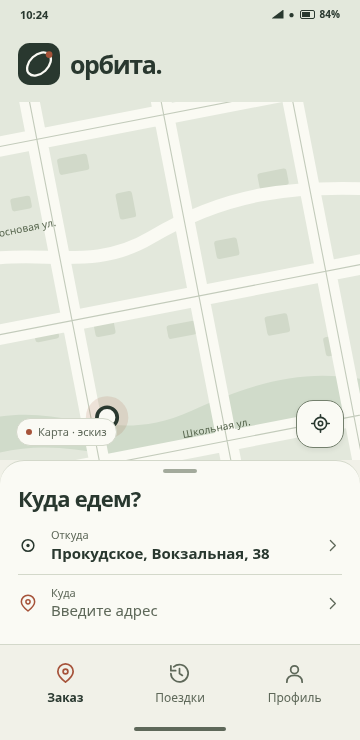
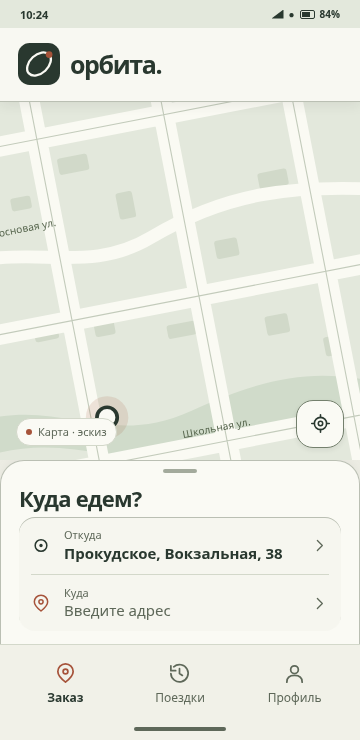
Save Orbita design fixes for visual review

diff --git a/design/orbita-concept.html b/design/orbita-concept.html
@@ -16,6 +16,7 @@
       --map-land:#E3E8DC; --map-park:#D0DBCA; --map-road:#FAFAF3; --map-road-edge:#C3CBBB; --map-building:#D1D9C9;
       --map-label:#58674F; --map-route:#A6533A; --map-halo:#E3E8DC; --stage:#E6E7DD;
       --brand-tile:#29382F; --brand-ring:#FAFAF4; --shadow:rgba(32,43,32,.08);
+      --position:#2F6B9A;
     }
     body[data-theme="dark"] {
       --background:#23241F; --surface:#2E3028; --surface-variant:#3C4034; --text:#F2F0E5; --muted:#BFC4B0;
@@ -24,6 +25,7 @@
       --map-land:#30382D; --map-park:#3E4A39; --map-road:#59664F; --map-road-edge:#424D38; --map-building:#3B4635;
       --map-label:#C6CBB7; --map-route:#E39272; --map-halo:#30382D; --stage:#1B1E18;
       --brand-tile:#F2F0E5; --brand-ring:#23241F; --shadow:rgba(0,0,0,.18);
+      --position:#88BDE6;
     }
     button, input, select { font:inherit; }
     button { cursor:pointer; }
@@ -65,7 +67,7 @@
     .scene-tools button[aria-pressed="true"] { border-color:var(--accent); background:var(--accent-soft); }
     .preview-zone { width:100%; display:flex; justify-content:center; padding:8px 0 20px; }
     .stage-foot { max-width:600px; text-align:center; }
-    .device { --s:1; width:var(--device-w,390px); height:var(--device-h,844px); flex:none; border:3px solid var(--text); border-radius:32px; overflow:hidden; display:flex; flex-direction:column; background:var(--background); color:var(--text); box-shadow:0 16px 40px var(--shadow); }
+    .device { --s:1; --layer-edge:color-mix(in srgb,var(--outline) 48%,var(--surface)); --header-layer:color-mix(in srgb,var(--surface) 90%,var(--map-land)); --field-layer:color-mix(in srgb,var(--surface) 78%,var(--surface-variant)); container:orbita / inline-size; width:var(--device-w,390px); height:var(--device-h,844px); flex:none; border:3px solid var(--text); border-radius:32px; overflow:hidden; display:flex; flex-direction:column; background:var(--background); color:var(--text); box-shadow:0 16px 40px var(--shadow); }
     .status-bar { flex:none; height:28px; padding:0 20px; display:flex; align-items:center; justify-content:space-between; color:var(--text); background:var(--map-land); font-size:11px; font-weight:600; }
     .status-right { display:flex; align-items:center; gap:5px; font-size:10px; }
     .signal { width:12px; height:9px; background:currentColor; clip-path:polygon(0 100%,100% 0,100% 100%); }
@@ -97,7 +99,17 @@
     .map-controls { position:absolute; right:16px; top:12px; display:grid; background:var(--surface); border:1px solid var(--outline); border-radius:16px; overflow:hidden; }
     .map-controls button { width:48px; height:48px; border:0; background:transparent; color:var(--text); font-size:22px; }
     .map-controls button+button { border-top:1px solid var(--divider); }
-    .crosshair { position:absolute; left:50%; top:50%; width:34px; height:34px; border:4px solid var(--text); outline:8px solid color-mix(in srgb,var(--accent) 18%,transparent); border-radius:50%; transform:translate(-50%,-50%); background:var(--surface); }
+    .crosshair { position:absolute; left:50%; top:50%; width:40px; height:40px; transform:translate(-50%,-50%); color:var(--text); filter:drop-shadow(0 1px 2px var(--surface)); }
+    .crosshair .icon { width:40px; height:40px; stroke-width:2.4; }
+    .crosshair-label { position:absolute; left:50%; top:calc(50% + 26px); transform:translateX(-50%); padding:5px 9px; border:1px solid var(--layer-edge); border-radius:10px; background:var(--surface); color:var(--text); font-size:11px; white-space:nowrap; }
+    .map-legend { display:grid; grid-template-columns:repeat(2,minmax(0,1fr)); gap:9px 12px; padding:2px 0 13px; margin-bottom:12px; border-bottom:1px solid var(--divider); }
+    .map-legend>span { display:flex; align-items:center; gap:7px; min-width:0; color:var(--muted); font-size:calc(11px * var(--s)); line-height:1.35; overflow-wrap:anywhere; }
+    .marker-key { width:22px; height:22px; flex:none; display:grid; place-items:center; font-size:12px; font-style:normal; font-weight:650; }
+    .marker-key.position { color:var(--position); }
+    .marker-key.pickup { color:var(--surface); background:var(--text); border-radius:6px; }
+    .marker-key.destination { color:var(--accent); }
+    .marker-key.aim { color:var(--text); }
+    .map-graphic .marker-label { fill:var(--text); font-size:11px; font-weight:600; }
     .sheet { flex:none; max-height:65%; padding:8px 18px 13px; width:100%; border:0; border-top:1px solid var(--divider); border-radius:24px 24px 0 0; color:var(--text); background:var(--surface); overflow-y:auto; scrollbar-width:thin; }
     .sheet.expanded { flex:1 1 auto; max-height:none; }
     .sheet-handle { width:34px; height:4px; border-radius:100px; background:var(--outline); margin:0 auto 12px; opacity:.65; }
@@ -167,6 +179,10 @@
     .driver-status .status-symbol { width:44px; height:44px; border-radius:15px; display:grid; place-items:center; flex:none; color:var(--accent); background:var(--accent-soft); }
     .driver-status h2 { font-size:calc(19px * var(--s)); }
     .driver-status p { margin:7px 0 0; }
+    .driver-off .driver-status,.driver-online .driver-status { align-items:center; padding:2px 0; gap:12px; }
+    .driver-off .driver-status h2,.driver-online .driver-status h2 { font-size:calc(16px * var(--s)); margin-bottom:3px; }
+    .driver-off .driver-status p,.driver-online .driver-status p { font-size:calc(13px * var(--s)); margin:0; }
+    .driver-off .driver-status .status-symbol,.driver-online .driver-status .status-symbol { width:26px; height:26px; background:transparent; color:var(--muted); }
     .offer-time { display:flex; align-items:center; justify-content:space-between; gap:10px; }
     .offer-time strong { font-size:calc(25px * var(--s)); font-weight:650; color:var(--accent); font-variant-numeric:tabular-nums; white-space:nowrap; }
     .progress-track { height:4px; border-radius:10px; background:var(--surface-variant); overflow:hidden; }
@@ -187,6 +203,19 @@
     .avatar { width:54px; height:54px; border-radius:19px; display:grid; place-items:center; flex:none; background:var(--accent-soft); color:var(--accent); font-size:18px; font-weight:600; }
     .profile-identity strong { display:block; font-size:calc(20px * var(--s)); font-weight:650; line-height:1.2; overflow-wrap:anywhere; }
     .profile-identity p { margin-top:5px; }
+    .profile .profile-content { display:flex; flex-direction:column; gap:18px; }
+    .profile-content>* { flex-shrink:0; }
+    .profile-summary { padding:20px 18px; background:var(--surface); border:1px solid var(--layer-edge); border-radius:22px; box-shadow:0 5px 18px var(--shadow); }
+    .profile-summary .profile-identity { padding:0 0 14px; }
+    .profile-summary .profile-identity>div { min-width:0; }
+    .profile-summary .avatar { width:64px; height:64px; border-radius:21px; }
+    .profile-summary .badge { gap:6px; }
+    .profile .menu-group { padding:0 15px; border:1px solid var(--layer-edge); border-radius:20px; background:var(--surface); }
+    .profile .menu-row { min-height:76px; }
+    .profile .menu-row:last-child { border-bottom:0; }
+    .profile .section-label { margin:0 0 9px; }
+    .profile-footer { display:grid; gap:12px; margin-top:auto; padding-top:16px; border-top:1px solid var(--divider); }
+    .profile-footer .fine-print { text-align:center; margin:0; }
     .auth-intro { display:grid; gap:9px; padding:18px 0 8px; }
     .auth-form { display:grid; gap:10px; }
     .auth-form .primary { margin-top:14px; }
@@ -194,6 +223,17 @@
     .service-emblem { width:60px; height:60px; display:grid; place-items:center; border-radius:21px; color:var(--accent); background:var(--accent-soft); margin:12px 0 6px; }
     .service-emblem .icon { width:28px; height:28px; }
     .service-actions { display:grid; gap:10px; margin-top:12px; }
+    .status-page .service-content { align-content:safe center; }
+    .status-card { width:100%; display:grid; justify-items:center; gap:15px; padding:26px 22px 22px; border:1px solid var(--outline); border-radius:24px; background:var(--surface); box-shadow:0 9px 28px var(--shadow); text-align:center; }
+    .status-card .service-emblem { margin:0; }
+    .status-card h2,.status-card p { width:100%; }
+    .status-card .service-actions { width:100%; padding-top:18px; margin-top:4px; border-top:1px solid var(--divider); }
+    :is(.passenger-home,.passenger-map,.passenger-confirm,.driver-off,.driver-online,.driver-offer,.status-page) .app-head { position:relative; z-index:2; background:var(--header-layer); border-bottom:1px solid var(--layer-edge); box-shadow:0 3px 12px var(--shadow); }
+    :is(.passenger-home,.passenger-map,.passenger-confirm,.driver-off,.driver-online,.driver-offer) .sheet { border:1px solid var(--layer-edge); border-bottom:0; box-shadow:0 -7px 24px var(--shadow); }
+    :is(.passenger-home,.passenger-confirm,.driver-offer) .route-stack { padding:0 12px; border-radius:16px; background:var(--field-layer); box-shadow:inset 0 1px 0 var(--layer-edge); }
+    @supports (backdrop-filter:blur(8px)) {
+      :is(.passenger-home,.passenger-map,.passenger-confirm,.driver-off,.driver-online,.driver-offer) .app-head { background:color-mix(in srgb,var(--header-layer) 94%,transparent); backdrop-filter:blur(8px); }
+    }
     .welcome-content { min-height:0; flex:1; overflow-y:auto; display:flex; flex-direction:column; justify-content:center; align-items:center; gap:0; padding:36px 24px; text-align:center; }
     .welcome-content .brand-mark { width:94px; height:94px; }
     .welcome-content h1 { margin:24px 0 15px; font-size:calc(37px * var(--s)); font-weight:670; letter-spacing:-.055em; line-height:1.15; overflow-wrap:anywhere; }
@@ -217,8 +257,10 @@
     @media (prefers-reduced-motion:reduce) { .spinner { animation:none; } .shift-thumb { transition:none; } }
     .device[data-scale="3.2"] .map-stage { flex:0 0 112px; min-height:112px; }
     .device[data-scale="3.2"] .sheet { flex:1 1 auto; max-height:none; }
-    .device[data-scale="3.2"] .bottom-nav { display:flex; overflow-x:auto; scroll-snap-type:x proximity; }
-    .device[data-scale="3.2"] .nav-item { flex:1 0 auto; flex-direction:row; gap:10px; padding:12px 18px; white-space:nowrap; scroll-snap-align:start; }
+    .device[data-scale="3.2"] .bottom-nav { display:grid; grid-template-columns:1fr; padding:4px 12px; overflow:visible; }
+    .device[data-scale="3.2"] .nav-item { flex-direction:row; justify-content:flex-start; gap:12px; padding:10px 12px; white-space:normal; border-bottom:1px solid var(--divider); }
+    .device[data-scale="3.2"] .nav-item:last-child { border-bottom:0; }
+    .device[data-scale="3.2"] .nav-item[aria-current="page"] { background:var(--surface-variant); border-radius:12px; }
     .device[data-scale="3.2"] .button-row { grid-template-columns:1fr; }
     .device[data-scale="3.2"] .address-row { grid-template-columns:minmax(0,1fr); }
     .device[data-scale="3.2"] .address-row>.icon { display:none; }
@@ -226,6 +268,17 @@
     .device[data-scale="3.2"] .keyboard { height:100px; }
     .device[data-scale="3.2"] .welcome-content { justify-content:flex-start; }
     @media (min-width:600px) { .sheet>* { max-width:620px; margin-left:auto; margin-right:auto; } .service-content { width:100%; max-width:620px; align-self:center; } }
+    @container orbita (min-width:600px) {
+      .passenger-home .sheet { padding:12px 28px 22px; }
+      .passenger-home .sheet>* { max-width:none; }
+      .passenger-home .sheet-title { font-size:calc(26px * var(--s)); margin-bottom:10px; }
+      .passenger-home .address-row { min-height:88px; gap:16px; }
+      .passenger-home .row-label { font-size:calc(13px * var(--s)); }
+      .passenger-home .row-value { font-size:calc(18px * var(--s)); }
+      .passenger-home .bottom-nav { min-height:100px; padding:8px 24px; }
+      .passenger-home .nav-item { min-height:84px; font-size:calc(16px * var(--s)); gap:7px; }
+      .passenger-home .nav-item .icon { width:28px; height:28px; }
+    }
     @media (max-width:890px) {
       .studio { display:block; } .rail { position:static; height:auto; padding:12px 16px; border-right:0; border-bottom:1px solid var(--divider); }
       .mobile-menu { display:block; min-height:48px; min-width:80px; padding:10px 12px; border:1px solid var(--outline); border-radius:14px; background:var(--surface); color:var(--text); font-size:13px; }
@@ -247,6 +300,7 @@
     <symbol id="i-locate" viewBox="0 0 24 24"><circle cx="12" cy="12" r="7"/><circle cx="12" cy="12" r="2.5"/><path d="M12 2v3M12 19v3M2 12h3M19 12h3"/></symbol>
     <symbol id="i-arrow" viewBox="0 0 24 24"><path d="M4 12h16M14 6l6 6-6 6"/></symbol>
     <symbol id="i-power" viewBox="0 0 24 24"><path d="M12 2v9M6 5a9 9 0 1 0 12 0"/></symbol>
+    <symbol id="i-aim" viewBox="0 0 24 24"><path d="M3 8V3h5M16 3h5v5M21 16v5h-5M8 21H3v-5M12 8v8M8 12h8"/></symbol>
     <symbol id="i-pin" viewBox="0 0 24 24"><path d="M20 10c0 5-8 11-8 11S4 15 4 10a8 8 0 1 1 16 0Z"/><circle cx="12" cy="10" r="2.5"/></symbol>
     <symbol id="i-dot" viewBox="0 0 24 24"><circle cx="12" cy="12" r="7"/><circle cx="12" cy="12" r="2" fill="currentColor" stroke="none"/></symbol>
     <symbol id="i-map" viewBox="0 0 24 24"><path d="m3 5 6-2 6 2 6-2v16l-6 2-6-2-6 2zM9 3v16M15 5v16"/></symbol>
@@ -382,9 +436,14 @@
         `<button type="button" class="nav-item" data-go="${screen}" ${key === active ? 'aria-current="page"' : ''}>${icon(glyph)}<span>${label}</span></button>`
       ).join('')}</nav>`;
     }
-    function mapSvg(route = false) {
+    function pickerMarkers() {
+      return `<g class="marker-position" role="img" aria-label="Условная геопозиция"><circle cx="80" cy="170" r="22" fill="var(--position)" opacity=".13"/><path d="m80 155 10 27-10-5-10 5z" fill="var(--position)" stroke="var(--surface)" stroke-width="2"/><rect x="27" y="196" width="106" height="23" rx="9" fill="var(--surface)"/><text x="80" y="212" text-anchor="middle" class="marker-label">Геопозиция</text></g>
+        <g class="marker-pickup" transform="translate(70 0)" role="img" aria-label="Адрес подачи"><rect x="103" y="355" width="26" height="26" rx="7" fill="var(--text)" stroke="var(--surface)" stroke-width="2"/><text x="116" y="373" text-anchor="middle" style="fill:var(--surface);font-weight:700;font-size:14px">А</text><rect x="82" y="389" width="68" height="23" rx="9" fill="var(--surface)"/><text x="116" y="405" text-anchor="middle" class="marker-label">Подача</text></g>
+        <g class="marker-destination" role="img" aria-label="Пункт назначения"><path d="M290 280c-3-5-17-19-17-30a17 17 0 1 1 34 0c0 11-14 25-17 30Z" fill="var(--accent)"/><text x="290" y="254" text-anchor="middle" style="fill:var(--on-accent);font-size:14px;font-weight:700">Б</text><rect x="252" y="290" width="110" height="23" rx="9" fill="var(--surface)"/><text x="307" y="306" text-anchor="middle" class="marker-label">Назначение</text></g>`;
+    }
+    function mapSvg(route = false, picker = false) {
       const path = 'M116 428 160 384H215Q229 384 229 368V326L270 305 290 271';
-      return `<svg class="map-graphic" viewBox="0 0 390 560" preserveAspectRatio="xMidYMid slice" role="img" aria-label="Условная схема улиц, не географическая карта">
+      return `<svg class="map-graphic" viewBox="${picker ? '0 115 390 330' : '0 0 390 560'}" preserveAspectRatio="xMidYMid slice" role="img" aria-label="Условная схема улиц, не географическая карта">
         <rect x="-100" y="-100" width="650" height="800" class="land"/>
         <path d="M-40 438C60 399 110 465 207 421S356 373 445 399V437C330 407 278 452 206 470S60 433-40 480Z" class="park"/>
         <g transform="rotate(-11 195 280)">
@@ -394,11 +453,11 @@
           <text x="178" y="64">Центр</text><text x="5" y="196">Сосновая ул.</text><text x="166" y="448">Школьная ул.</text>
         </g>
         ${route ? `<path d="${path}" class="route-under"/><path d="${path}" class="route"/><g transform="translate(229 346) rotate(-8)"><rect x="-17" y="-9" width="34" height="18" rx="7" fill="var(--text)"/><rect x="-10" y="-6" width="20" height="12" rx="4" fill="var(--surface)"/></g><path d="M290 280c-3-5-17-19-17-30a17 17 0 1 1 34 0c0 11-14 25-17 30Z" fill="var(--accent)"/><circle cx="290" cy="249" r="5" fill="var(--on-accent)"/>` : ''}
-        <circle cx="116" cy="428" r="23" fill="var(--accent)" opacity=".14"/><circle cx="116" cy="428" r="11" fill="var(--surface)" stroke="var(--text)" stroke-width="4"/>
+        ${picker ? pickerMarkers() : '<circle cx="116" cy="428" r="23" fill="var(--accent)" opacity=".14"/><circle cx="116" cy="428" r="11" fill="var(--surface)" stroke="var(--text)" stroke-width="4"/>'}
       </svg>`;
     }
     function mapStage({route=false,picker=false} = {}) {
-      return `<div class="map-stage">${mapSvg(route)}${picker ? '<span class="crosshair" aria-hidden="true"></span><div class="map-controls"><button type="button" data-zoom="in" aria-label="Приблизить карту">+</button><button type="button" data-zoom="out" aria-label="Отдалить карту">−</button></div>' : ''}<span class="map-note">Карта · эскиз</span><button type="button" class="map-locate" data-demo-action="В макете показана условная точка" aria-label="Определить местоположение">${icon('locate')}</button></div>`;
+      return `<div class="map-stage">${mapSvg(picker ? false : route,picker)}${picker ? `<span class="crosshair" role="img" aria-label="Прицел выбора">${icon('aim')}</span><span class="crosshair-label">Точка выбора</span><div class="map-controls"><button type="button" data-zoom="in" aria-label="Приблизить карту">+</button><button type="button" data-zoom="out" aria-label="Отдалить карту">−</button></div>` : ''}<span class="map-note">Карта · эскиз</span><button type="button" class="map-locate" data-demo-action="В макете показана условная точка" aria-label="Определить местоположение">${icon('locate')}</button></div>`;
     }
     function routeStack(editing = false) {
       return `<div class="route-stack"><button type="button" class="address-row" ${editing ? 'data-edit="pickup"' : 'data-go="passenger-pickup"'}>${icon('dot')}<span class="row-content"><span class="row-label">Откуда</span><span class="row-value">${esc(state.pickup)}</span></span>${icon('next')}</button><button type="button" class="address-row" ${editing ? 'data-edit="destination"' : 'data-go="passenger-destination"'}>${icon('pin')}<span class="row-content"><span class="row-label">Куда</span><span class="row-value ${state.destination ? '' : 'placeholder'}">${state.destination ? esc(state.destination) : 'Введите адрес'}</span></span>${icon('next')}</button></div>`;
@@ -434,7 +493,7 @@
     }
     function mapPicker() {
       const field = state.mapField;
-      return header('Выбор точки') + mapStage({picker:true}) + sheet(`<h2 class="sheet-title">${field === 'pickup' ? 'Место подачи' : 'Пункт назначения'}</h2><p class="sheet-subtitle">Подтверди точку под прицелом</p><button class="primary" type="button" data-confirm-map>Выбрать это место</button><button class="quiet" type="button" data-back>Вернуться к адресу</button>`) + nav();
+      return header('Выбор точки') + mapStage({picker:true}) + sheet(`<div class="map-legend" aria-label="Обозначения условных точек"><span><i class="marker-key position" aria-hidden="true">${icon('arrow')}</i>Геопозиция</span><span><i class="marker-key pickup" aria-hidden="true">А</i>Подача</span><span><i class="marker-key destination" aria-hidden="true">${icon('pin')}</i>Назначение</span><span><i class="marker-key aim" aria-hidden="true">${icon('aim')}</i>Прицел выбора</span></div><h2 class="sheet-title">${field === 'pickup' ? 'Место подачи' : 'Пункт назначения'}</h2><p class="sheet-subtitle">Подтверди точку под прицелом</p><button class="primary" type="button" data-confirm-map>Выбрать это место</button><button class="quiet" type="button" data-back>Вернуться к адресу</button>`) + nav();
     }
     function confirmRoute() {
       return header() + mapStage({route:true}) + sheet(`<h2 class="sheet-title">Всё верно?</h2>${routeStack(true)}<button class="primary" type="button" disabled aria-describedby="order-unavailable" style="margin-top:12px">Заказать такси</button><p class="fine-print" id="order-unavailable">В макете заказ не отправляется.</p>`) + nav();
@@ -457,7 +516,7 @@
     function driverScreen() {
       if (state.screen === 'driver-off' || state.screen === 'driver-online') {
         const online = state.shiftOnline;
-        return header() + shiftControl() + mapStage() + sheet(`<div class="driver-status"><div><h2 class="sheet-title">${online ? 'Ждём заказ' : 'Начнём смену?'}</h2><p class="sheet-subtitle">${online ? 'Новое предложение появится здесь.' : 'Проведи ползунок, когда будешь готов.'}</p></div><span class="status-symbol" aria-hidden="true">${icon(online ? 'route' : 'power')}</span></div>`) + nav('driver');
+        return header() + shiftControl() + mapStage() + sheet(`<div class="driver-status"><div><h2 class="sheet-title">${online ? 'Предложения' : 'Заказы'}</h2><p class="sheet-subtitle">${online ? 'Новых предложений пока нет.' : 'Активных поездок нет.'}</p></div><span class="status-symbol" aria-hidden="true">${icon('route')}</span></div>`) + nav('driver');
       }
       if (state.screen === 'driver-offer') {
         return header() + mapStage({route:true}) + sheet(`<div class="driver-panel"><div class="offer-time"><h2 class="sheet-title">Новый заказ</h2><strong>25 с</strong></div><div class="progress-track" role="img" aria-label="На ответ — 25 секунд"><div class="progress-fill"></div></div><div class="route-stack"><div class="address-row">${icon('dot')}<span class="row-content"><span class="row-label">Откуда</span><span class="row-value">Прокудское, Вокзальная, 38</span></span></div><div class="address-row">${icon('pin')}<span class="row-content"><span class="row-label">Куда</span><span class="row-value">Чик, Комсомольская, 17</span></span></div></div><div class="button-row"><button class="secondary" type="button" data-go="driver-online">Отказаться</button><button class="primary" type="button" data-go="driver-gallery">Принять</button></div></div>`) + nav('driver');
@@ -471,7 +530,7 @@
       return header('Этапы поездки') + `<div class="service-content"><div class="mini-states">${stages.map(([num,title,detail,action]) => `<div class="mini-state"><span class="badge">${num}</span><strong>${title}</strong><p>${detail}</p><button class="secondary" type="button" data-demo-action="${action}">${action}</button></div>`).join('')}</div></div>` + nav('driver');
     }
     function servicePage(title, tone, message, actions, glyph='alert') {
-      return header() + `<div class="service-content"><div class="service-emblem" style="color:var(--${tone || 'accent'})">${icon(glyph)}</div><h2>${title}</h2><p>${message}</p><div class="service-actions">${actions}</div></div>`;
+      return header() + `<div class="service-content"><section class="status-card" aria-label="${title}"><div class="service-emblem" style="color:var(--${tone || 'accent'})">${icon(glyph)}</div><h2>${title}</h2><p>${message}</p><div class="service-actions">${actions}</div></section></div>`;
     }
     function authScreen() {
       if (state.screen === 'auth-welcome') return `<div class="welcome-content">${mark()}<h1>орбита.</h1><p>Местное такси для своих</p><span class="spinner" role="status" aria-label="Загрузка"></span></div>`;
@@ -485,7 +544,7 @@
       return `<button class="menu-row" type="button" data-go="${target}">${icon(glyph)}<span>${label}${detail ? `<small>${detail}</small>` : ''}</span>${icon('next')}</button>`;
     }
     function profileScreen() {
-      return header('Профиль') + `<div class="service-content"><div class="profile-identity"><span class="avatar" aria-hidden="true">${state.role === 'driver' ? 'ТВ' : 'ТП'}</span><div><strong>Тестовый ${state.role === 'driver' ? 'водитель' : 'пассажир'}</strong><p>Аккаунт проверен</p></div></div><p class="section-label">МОЙ АККАУНТ</p><div class="menu-group">${menuRow('history','Поездки','trips')}${menuRow('gear','Настройки','settings','Тема и внешний вид')}${menuRow('alert','О приложении','diagnostics')}</div><button class="quiet" type="button" data-go="auth-login" style="text-align:left;padding-left:0">Выйти</button></div>` + nav(state.role,'profile');
+      return header('Профиль') + `<div class="service-content profile-content"><section class="profile-summary" aria-label="Аккаунт"><div class="profile-identity"><span class="avatar" aria-hidden="true">${state.role === 'driver' ? 'ТВ' : 'ТП'}</span><div><strong>Тестовый ${state.role === 'driver' ? 'водитель' : 'пассажир'}</strong><p>${state.role === 'driver' ? 'Водитель' : 'Пассажир'}</p></div></div><span class="badge success">${icon('check')}Аккаунт проверен</span></section><section aria-label="Разделы профиля"><p class="section-label">МОЙ АККАУНТ</p><div class="menu-group">${menuRow('history','Поездки','trips','История поездок')}${menuRow('gear','Настройки','settings','Тема и внешний вид')}${menuRow('alert','О приложении','diagnostics','Информация и диагностика')}</div></section><footer class="profile-footer"><button class="secondary" type="button" data-go="auth-login">Выйти</button><p class="fine-print">орбита. · Местное такси для своих</p></footer></div>` + nav(state.role,'profile');
     }
     function settingsScreen() {
       const choices = [['light','sun','Светлая','Лён и мягкий дневной свет'],['dark','moon','Тёмная','Графит и тёплая медь'],['system','gear','Как на устройстве','Меняется вместе с системой']];
@@ -574,6 +633,7 @@
       document.getElementById('scene-title').textContent = pages[state.screen];
       document.getElementById('scene-description').textContent = state.screen.startsWith('passenger') ? 'Два адреса, читаемая карта и короткий путь от выбора точки до проверки маршрута.' : state.screen.startsWith('driver') ? 'Рабочие состояния водителя. Время предложения — 25 секунд; диспетчер не подключён.' : 'Визуальное состояние без настоящей авторизации и сетевых действий.';
       app.className = `app-screen ${state.screen} ` + (state.screen.startsWith('passenger') ? (['passenger-pickup','passenger-destination','passenger-suggestions','passenger-edit'].includes(state.screen) ? 'entry' : (state.screen === 'passenger-map' ? 'picker' : '')) : (state.screen.startsWith('driver') && state.screen !== 'driver-gallery' ? '' : 'service'));
+      if (['auth-offline','auth-norole','auth-blocked','auth-admin'].includes(state.screen)) app.classList.add('status-page');
       let content;
       if (state.screen.startsWith('passenger')) content = passengerScreen();
       else if (state.screen.startsWith('driver')) content = driverScreen();

diff --git a/design/README.md b/design/README.md
@@ -4,6 +4,18 @@
 
 Открой [orbita-concept.html](orbita-concept.html) локально. Это один файл со встроенными CSS, JavaScript и SVG, без API, CDN, шрифтов из сети и настоящей авторизации. На компьютере слева — выбор состояния; на смартфоне меню открывается кнопкой **«Макеты ↓»**. Размер, тема и масштаб текста меняются в этом меню. Демонстрационные настройки ползунка находятся над экраном приложения и не являются частью продукта.
 
+## Локальные правки после ревью
+
+В текущем рабочем каталоге исправлены только согласованные замечания. Изменения не публиковались, коммит и GitHub Actions не запускались.
+
+- Четыре служебных состояния получили центрированные карточки с рамкой, отдельной областью сообщения и отделёнными действиями.
+- У затронутых экранов карты шапка и нижняя панель отделены мягким контуром и тенью. Шапка имеет лёгкую полупрозрачность и blur 8 px с непрозрачным запасным вариантом. Адресные строки получили спокойную подложку; основная палитра и логотип сохранены.
+- Пассажирский экран планшета адаптируется по **ширине самого макета** через container query: адреса используют доступную ширину, строки увеличены до 88 dp, нижние кнопки — минимум 84 dp, иконки — 28 dp. Размещение мобильного макета на широком мониторе не включает планшетный режим.
+- Профиль разделён на блок аккаунта и группу существующих разделов, а выход и подпись приложения закрепляют нижнюю часть композиции. Новые функции и пользовательские данные не добавлены.
+- При ×3.2 все три пункта основного меню показаны вертикально одновременно. Прокрутка навигации не требуется; масштаб текста сохранён.
+- В выборе точки геопозиция обозначена синей стрелкой, подача — квадратом «А», назначение — медным пином «Б», прицел — четырьмя уголками с перекрестием. Добавлены подписи и легенда; точки по-прежнему условные.
+- Нижняя водительская панель показывает наличие поездок/предложений и не повторяет статус линии или инструкцию жеста. Взаимодействие ползунка не изменялось.
+
 ## Что изменено по референсам
 
 | Область | В первой версии | В редакции 02 |
@@ -54,6 +66,9 @@
 | `map-label` | `#58674F` | `#C6CBB7` | Названия на схеме |
 | `brand-tile` | `#29382F` | `#F2F0E5` | Плитка логотипа |
 | `brand-ring` | `#FAFAF4` | `#23241F` | Кольцо внутри плитки |
+| `position` | `#2F6B9A` | `#88BDE6` | Стрелка условной геопозиции |
+
+Дополнительные токены слоёв вычисляются из сохранённой палитры: `layer-edge` — 48% `outline` + 52% `surface`; `header-layer` — 90% `surface` + 10% `map-land`; `field-layer` — 78% `surface` + 22% `surface-variant`. Они не заменяют исходные цвета бренда.
 
 ### Контраст
 
@@ -78,6 +93,7 @@
 | Недоступная надпись / кнопка | 4.78:1 | 5.94:1 | 4.5:1 |
 | Подпись карты / суша | 4.86:1 | 7.30:1 | 4.5:1 |
 | Маршрут и маркер / суша | 4.30:1 | 4.99:1 | 3:1 |
+| Стрелка геопозиции / фон карты | 4.56:1 | 6.05:1 | 3:1 |
 
 Разделители и декоративные оттенки карты не используются как единственный признак состояния. Подписи схемы и маршрут проверены отдельно; эти расчёты не подтверждают внешний вид будущих реальных тайлов.
 
@@ -100,7 +116,7 @@
 | Статус ползунка | 14 | 600 | 18 | «Не на линии» / «На линии» |
 | Подсказка жеста | 10 | 400 | 13 | Направление движения |
 
-В фирменном написании интервал `−0.055em`, в заголовках `−0.03…−0.04em`; основной текст имеет обычный интервал. Логотип как графический ресурс не зависит от размера системного текста. Вся продуктовая типографика масштабируется без смены на меньший исходный стиль: адрес 15 → **48 px** при масштабе 3.2; подпись навигации 12 → **38.4 px**. При 3.2 поля занимают всю ширину без необязательных боковых значков, панель прокручивается, нижнее меню прокручивается горизонтально. Масштаб не ограничивается и не уменьшается ради кадра.
+В фирменном написании интервал `−0.055em`, в заголовках `−0.03…−0.04em`; основной текст имеет обычный интервал. Логотип как графический ресурс не зависит от размера системного текста. Вся продуктовая типографика масштабируется без смены на меньший исходный стиль: адрес 15 → **48 px** при масштабе 3.2; подпись навигации 12 → **38.4 px**. При 3.2 поля занимают всю ширину без необязательных боковых значков, панель прокручивается, нижнее меню превращается в три видимые вертикальные строки. Масштаб не ограничивается и не уменьшается ради кадра.
 
 | Параметр | Значение |
 | --- | --- |
@@ -116,7 +132,7 @@
 | Нижняя навигация | минимум 73 dp |
 | Основная шапка | минимум 74 dp |
 
-В компактном пассажирском состоянии карта занимает примерно 66–72% пространства между шапкой и навигацией при двух контрольных размерах. На планшете содержимое панели ограничено шириной 620 dp, карта сохраняет полную ширину. При клавиатуре и крупном тексте карта уступает высоту форме. Строка состояния 28 px и нижняя системная зона 23 px в HTML условные; при будущем переносе нужны настоящие Android-inset и `SafeArea`.
+На планшете пассажирские адресные строки используют всю ширину панели с внешними отступами 28 dp; прежнее ограничение 620 dp для них снято. Шрифт адреса — 18 sp, подписи нижних кнопок — 16 sp. При клавиатуре и крупном тексте карта уступает высоту форме и доступной навигации. Строка состояния 28 px и нижняя системная зона 23 px в HTML условные; при будущем переносе нужны настоящие Android-inset и `SafeArea`.
 
 ## Водительский ползунок
 
@@ -142,16 +158,22 @@
 ## PNG и SVG
 
 - Пассажир: [светлый](previews/passenger-home-light-390x844.png), [тёмный](previews/passenger-home-dark-390x844.png), [360 × 740](previews/passenger-home-light-360x740.png), [планшет](previews/passenger-tablet-light-800x1280.png), [текст ×3.2](previews/passenger-max-font-3.2.png).
-- Адреса: [подача](previews/passenger-pickup-expanded.png), [назначение](previews/passenger-destination-expanded.png), [подсказки](previews/passenger-suggestions.png), [точка](previews/passenger-map-selection.png), [проверка](previews/passenger-route-confirm.png), [изменение](previews/passenger-edit-address.png).
+- Адреса: [подача](previews/passenger-pickup-expanded.png), [назначение](previews/passenger-destination-expanded.png), [подсказки](previews/passenger-suggestions.png), [точка — светлая](previews/passenger-map-selection.png), [точка — тёмная](previews/passenger-map-selection-dark.png), [проверка](previews/passenger-route-confirm.png), [изменение](previews/passenger-edit-address.png).
 - Водитель: [не на линии — светлый](previews/driver-off-light.png), [тёмный](previews/driver-off-dark.png), [на линии](previews/driver-online.png), [ожидание подтверждения](previews/driver-slider-pending.png), [откат при ошибке](previews/driver-slider-error.png), [новый заказ](previews/driver-offer-25s.png), [этапы поездки](previews/driver-journey-gallery.png).
 - Аккаунт: [приветствие — светлое](previews/welcome-light.png), [тёмное](previews/welcome-dark.png), [вход](previews/auth-login.png), [служебные состояния](previews/auth-statuses-overview.png), [профиль](previews/profile.png), [настройки](previews/settings.png), [диагностика](previews/diagnostics.png).
 - [План переноса во Flutter](FLUTTER_HANDOFF.md) — только после принятия дизайна.
 
 ## Проверки и границы результата
 
-Проверены 23 состояния при 390 × 844 и 360 × 740, а также восемь ключевых экранов при масштабе 3.2 на обоих размерах — всего **62 сочетания**. Ошибок JavaScript и горизонтального выхода за экран нет; кнопки, поля и трек имеют область касания не меньше 48 × 48 px. Структурированная горизонтальная прокрутка нижнего меню при 3.2 предусмотрена отдельно и не выталкивает весь экран. Проверены назад, изменение адресов, выбор точки, системная тема и мобильное меню.
+Для опубликованной редакции 02 ранее проверены 62 сочетания размеров и масштабов. Результаты текущих локальных исправлений указаны отдельно ниже; прежняя горизонтальная прокрутка навигации заменена тремя видимыми строками.
 
-Ползунок отдельно проверен мышью, касанием и клавиатурой: тап по треку, неполный жест, полный жест, ожидание, успех, ошибка с откатом и отмена позднего завершения при уходе со страницы. В проверке включён режим браузера **без интернета**; сетевых запросов — **0**. Рассчитаны **17 контрастных пар** для обеих тем. Подготовлены **26 PNG** и **8 SVG**, включая контроль 24/48 px и масок Android. Непрозрачные элементы foreground находятся в радиусе 29.73 px при безопасном радиусе 33 px.
+Текущие локальные исправления проверены в **60 сочетаниях** затронутых экранов, двух размеров и обеих тем, включая ×3.2. Все три пункта меню полностью видны, доступны касанием и не требуют прокрутки; размер надписей навигации остался 38.4 px. На планшете проверены адресные строки 88 dp, нижние кнопки 84 dp и иконки 28 dp. Подписи всех четырёх обозначений карты находятся в видимой области и не перекрываются кнопками карты при 390 × 844 и 360 × 740. Проверены переходы адресного сценария и назад.
+
+Ползунок повторно проверен мышью, касанием и клавиатурой: неполный жест, ожидание, подтверждение, ошибка с откатом и отмена позднего завершения. Его обработчики и исходные цвета палитры сохранены. Сетевых запросов и ошибок JavaScript — 0. Дополнительный контраст стрелки геопозиции — 4.56:1 / 6.05:1 в светлой/тёмной теме.
+
+Обновлены **16 PNG именно затронутых экранов**; остальные превью и все SVG не менялись. В том числе добавлена тёмная версия выбора точки. Проверены ссылки и `git diff --check`. Изменения остаются локальными, без коммита и публикации.
+
+В опубликованной редакции ползунок проверен мышью, касанием и клавиатурой: тап по треку, неполный жест, полный жест, ожидание, успех, ошибка с откатом и отмена позднего завершения при уходе со страницы. Рассчитаны 17 базовых контрастных пар для обеих тем. В текущих правках SVG-логотипы и иконка не изменялись; результаты их проверки 24/48 px и масок Android относятся к редакции 02.
 
 Прямое открытие `file://` управляемый Chromium этой среды блокирует своей политикой (`ERR_BLOCKED_BY_ADMINISTRATOR`). Поэтому весь тот же HTML проверен загрузкой содержимого в пустую вкладку без сети; обычный двойной щелчок на твоём устройстве остаётся ручной проверкой. Файл не требует сервера и не ссылается на внешние ресурсы.
 

diff --git a/design/FLUTTER_HANDOFF.md b/design/FLUTTER_HANDOFF.md
@@ -21,7 +21,9 @@
 
 На Android панель должна учитывать `SafeArea`, системные отступы, высоту клавиатуры, узкую ширину и длинные адреса. При крупном шрифте дать панели прокрутку и оставить кнопки вне системной навигации. Карта в компактном состоянии получает большую часть доступной высоты, а при вводе уступает её панели. Реальные тайлы OSM/OpenMapTiles/CARTO и Geoapify не заменяются SVG-схемой; юридические атрибуции `MapAttribution` остаются видимыми.
 
-Масштаб текста не компенсировать уменьшением исходного стиля или ограничением `TextScaler`. В HTML 15 sp адреса превращаются в 48 px при 3.2. Для этого декоративные значки выносятся из адресных строк, строка получает полную ширину, панель прокручивается. Для нижней навигации в HTML при 3.2 предусмотрена горизонтальная прокрутка; конкретное Flutter-решение проверить с настоящим системным масштабом и средствами доступности Android. В обычной компоновке сохраняются три вкладки и акцентная иконка без залитой карточки.
+Масштаб текста не компенсировать уменьшением исходного стиля или ограничением `TextScaler`. В HTML 15 sp адреса превращаются в 48 px при 3.2. Для этого декоративные значки выносятся из адресных строк, строка получает полную ширину, панель прокручивается. При 3.2 нижнее меню становится тремя вертикальными строками, одновременно доступными без прокрутки; конкретное Flutter-решение проверить с настоящим системным масштабом и средствами доступности Android. В обычной компоновке сохраняются три вкладки и акцентная иконка без залитой карточки.
+
+Планшетная компоновка пассажира определяется доступной шириной, а не моделью устройства: адресные строки растягиваются, высота строк и нижних кнопок увеличивается. В служебных состояниях сохраняются центрированные карточки с отдельными зонами сообщения и действий. Профиль использует существующие разделы без добавления новых функций. При переносе обозначений карты сохранить различия формы и подписи: геопозиция — стрелка, подача — «А», назначение — пин «Б», выбор — прицел. Условные координаты из HTML не переносить в приложение.
 
 Ползунок — отдельный компонент с состояниями `off`, `on`, `pending`, `failure`. Начало жеста только на бегунке; короткий жест отменяется, полный задаёт желаемое состояние. Подтверждённое состояние до ответа сервера не заменять желаемым. При ошибке восстановить прежнее положение и показать причину понятным текстом. Повторный запрос во время ожидания закрыт; поздний ответ после ухода со страницы игнорируется. Предусмотреть клавиатурное и доступное альтернативное управление. Порог 86% и задержка 900 мс относятся к **макету**, задержку нельзя переносить вместо реального подтверждения.
 
